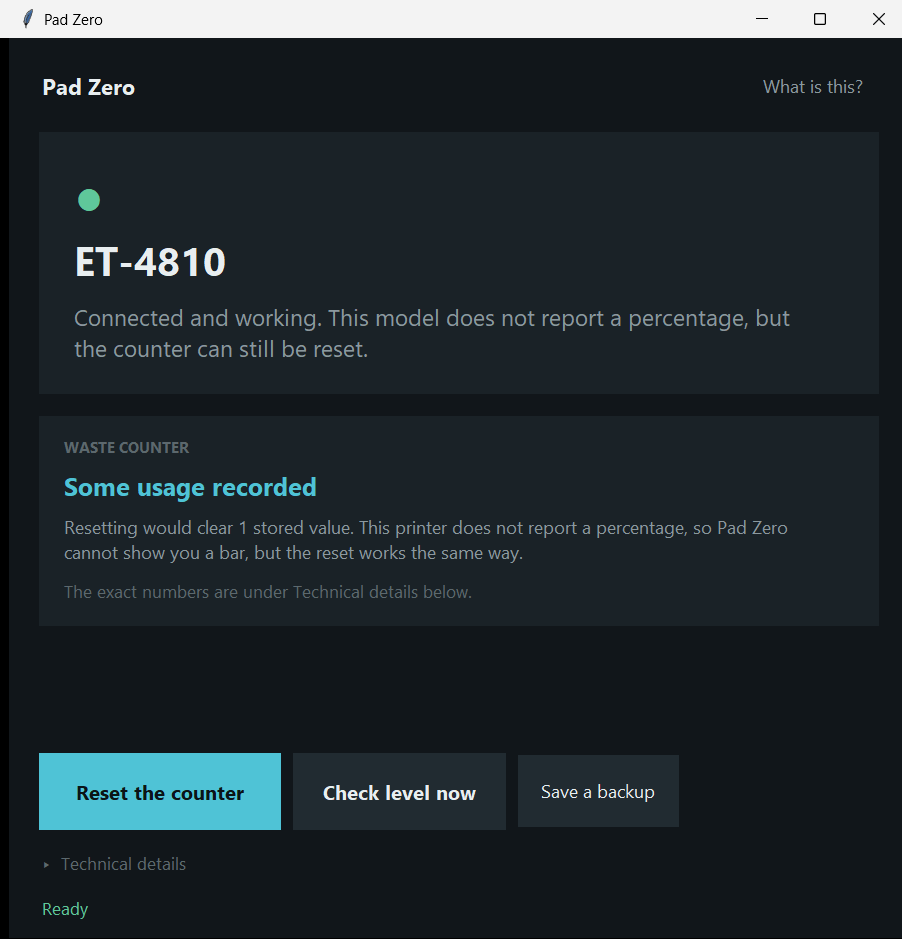
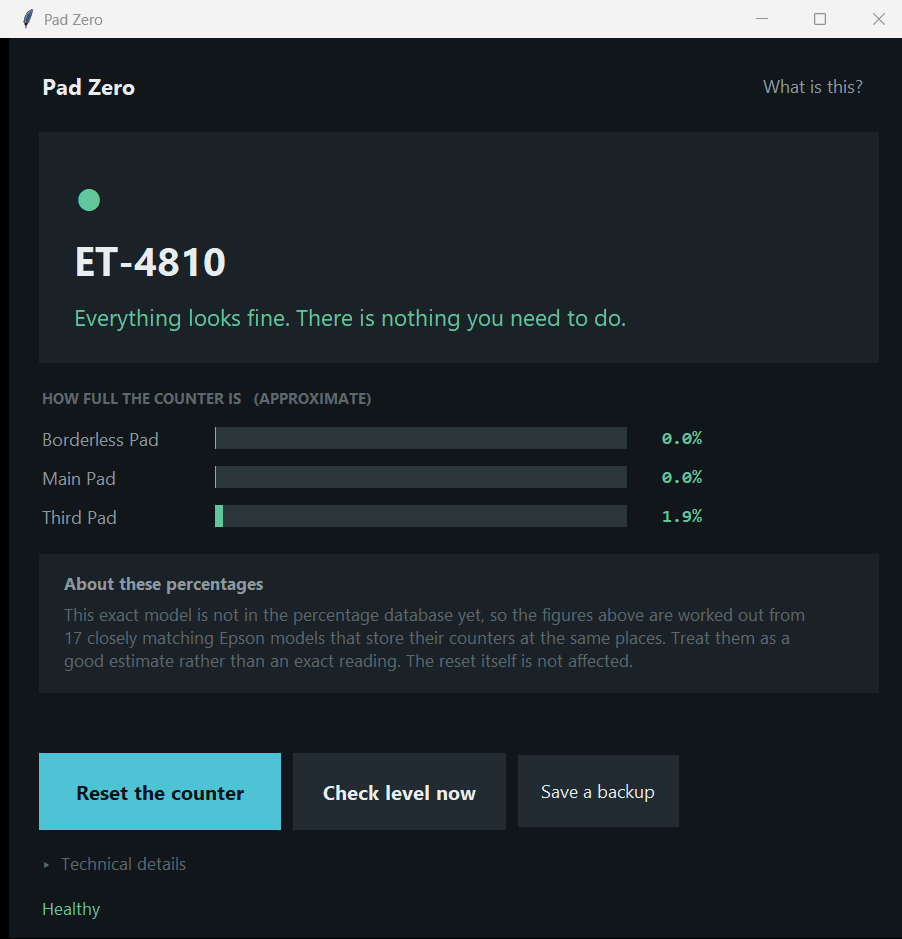
Show approximate percentages for models with no divider data
"1 stored value" is not an answer to "how full is it". Models like the
ET-4810 have known reset addresses but no entry in the percentage
database, so there was no bar to draw and nothing useful to say.

infer_waste() now derives a probable layout from models that store their
counters at the same addresses. The rule is deliberately strict: at least
three addresses must overlap, the highest-overlap layout wins, and it
refuses outright unless exactly one distinct layout ties for that score.
For the ET-4810 that resolves to the 17 models with a third counter at
252/253/254, which agree unanimously on 63.46 / 34.16 / 13.0. Dividers do
vary between families (16.31 and 34.15 also occur at these addresses), so
the unanimity check is doing real work rather than rubber-stamping.

This is safe in a way a guessed key or address would not be: a divider
only scales a number on screen and is never written to the printer.

Readings carry approx=True, coverage reports "approx", the heading says
APPROXIMATE, and a panel explains where the figures came from. Before and
after comparisons now work on these models too, since they finally have
percentages to compare.

diff --git a/padzero.py b/padzero.py
@@ -1,4 +1,4 @@
-#!/usr/bin/env python3
+#!/usr/bin/env python3
 r"""
 padzero.py - read and reset Epson waste ink counters.
 
@@ -133,6 +133,60 @@ def load_models():
         return json.load(fh)
 
 
+def infer_waste(reset_addrs, models):
+    """Work out a probable waste layout for a model with no divider data.
+
+    Some printers (the ET-4810 among them) have known reset addresses but no
+    entry in the percentage database, so there is no divider and no bar to
+    show. That is unhelpful: "1 stored value" tells a person nothing.
+
+    A divider only affects a displayed number, never a write, so a careful
+    inference here cannot damage a printer the way a guessed key or address
+    could. The rule is deliberately strict:
+
+      * only consider models whose waste addresses overlap this model's
+        reset addresses by at least three
+      * take the layout with the highest overlap
+      * refuse unless exactly one distinct layout ties for that best score
+
+    For the ET-4810 that lands on the 17 models with a third counter at
+    252/253/254, which agree unanimously on 63.46 / 34.16 / 13.0. If any of
+    them disagreed this returns None, and we say nothing rather than print a
+    number we cannot stand behind.
+
+    Returns {"waste": ..., "basis": [model names]} or None.
+    """
+    reset_set = set(reset_addrs)
+    if len(reset_set) < 3:
+        return None
+
+    groups = {}
+    for name, entry in models.items():
+        waste = entry.get("waste")
+        if not waste:
+            continue
+        oids = set()
+        for cfg in waste.values():
+            oids |= set(cfg["oids"])
+        overlap = len(oids & reset_set)
+        if overlap < 3:
+            continue
+        sig = json.dumps(waste, sort_keys=True)
+        g = groups.setdefault(sig, {"waste": waste, "models": [], "overlap": 0})
+        g["models"].append(name)
+        g["overlap"] = max(g["overlap"], overlap)
+
+    if not groups:
+        return None
+
+    best = max(g["overlap"] for g in groups.values())
+    tied = [g for g in groups.values() if g["overlap"] == best]
+    if len(tied) != 1:
+        return None  # candidate layouts disagree, so do not guess
+
+    return {"waste": tied[0]["waste"], "basis": sorted(tied[0]["models"])}
+
+
 # ----------------------------------------------------------------- printer
 class Printer:
     def __init__(self, path, models):
@@ -168,19 +222,43 @@ class Printer:
     def coverage(self):
         if not self.has_specs:
             return "none"
-        return "full" if self.extra.get("waste") else "partial"
+        if self.extra.get("waste"):
+            return "full"
+        return "approx" if self.inferred else "partial"
 
     # -- reading ----------------------------------------------------------
     def read(self, addrs):
         return dict(self.ep.read_eeprom(*addrs))
 
+    @property
+    def inferred(self):
+        """Probable waste layout when this model has no entry of its own."""
+        if not hasattr(self, "_inferred"):
+            self._inferred = None
+            if not self.extra.get("waste") and self.has_specs:
+                addrs = []
+                for m in getattr(self.ep.spec, "mem", []) or []:
+                    addrs.extend(m.get("addr", []))
+                if addrs:
+                    self._inferred = infer_waste(addrs, self.models)
+        return self._inferred
+
     def counters(self):
         """
         Percentages where a divider is known, otherwise raw byte values.
         Returns a list of dicts so the caller can render either shape.
+
+        Entries carry approx=True when the layout was inferred from models
+        that share this printer's reset addresses rather than read from its
+        own database entry.
         """
         out = []
         waste = self.extra.get("waste")
+        approx = False
+        if not waste and self.inferred:
+            waste = self.inferred["waste"]
+            approx = True
+
         if waste:
             for name, cfg in waste.items():
                 vals = self.read(cfg["oids"])
@@ -191,10 +269,11 @@ class Printer:
                 raw = int("".join("%02X" % v for v in reversed(b)), 16)
                 div = cfg.get("divider")
                 out.append({"name": name, "bytes": b, "raw": raw,
+                            "approx": approx,
                             "percent": round(raw / div, 2) if div else None})
             return out
 
-        # no divider data - report the raw bytes reinkpy would reset
+        # no divider data at all - report the raw bytes reinkpy would reset
         for m in getattr(self.ep.spec, "mem", []) or []:
             addrs = list(m.get("addr", []))
             if not addrs:
@@ -410,6 +489,7 @@ def main():
     print("  key group  : %s / %r" % (hex(rk) if rk else "?",
                                       getattr(pr.ep.spec, "wkey", None)))
     cov = {"full": "full - percentages and reset available",
+           "approx": "approximate - percentages estimated from matching models",
            "partial": "partial - reset available, no percentage data",
            "none": "NONE - this model is not in either database"}[pr.coverage]
     print("  coverage   : %s" % cov)

diff --git a/padzero_gui.py b/padzero_gui.py
@@ -503,6 +503,26 @@ class App:
             self.status("Healthy", GOOD)
 
         self._bars(counters)
+
+        if pr.coverage == "approx" and any(
+                c.get("percent") is not None for c in (counters or [])):
+            note = tk.Frame(self.advice, bg=CARD)
+            note.pack(fill="x")
+            tk.Label(note, text="About these percentages",
+                     font=("Segoe UI", 10, "bold"), bg=CARD, fg=DIM,
+                     anchor="w").pack(fill="x", padx=S(18), pady=(S(12), S(2)))
+            basis = (pr.inferred or {}).get("basis") or []
+            tk.Label(note,
+                     text=("This exact model is not in the percentage database "
+                           "yet, so the figures above are worked out from %d "
+                           "closely matching Epson models that store their "
+                           "counters at the same places. Treat them as a good "
+                           "estimate rather than an exact reading. The reset "
+                           "itself is not affected."
+                           % len(basis)),
+                     font=F_SMALL, bg=CARD, fg=FAINT, anchor="w",
+                     justify="left", wraplength=S(600)).pack(
+                fill="x", padx=S(18), pady=(0, S(14)))
         rk = getattr(pr.ep.spec, "rkey", None)
         lines = ["model      %s" % pr.model,
                  "serial     %s" % (pr.serial or "?"),
@@ -549,6 +569,8 @@ class App:
 
         if readable:
             heading = "BEFORE AND AFTER" if prev else "HOW FULL THE COUNTER IS"
+            if any(c.get("approx") for c in readable) and not prev:
+                heading += "   (APPROXIMATE)"
             tk.Label(self.levels, text=heading,
                      font=("Segoe UI", 9, "bold"), bg=BG,
                      fg=ACCENT if prev else FAINT,

diff --git a/RELEASE_NOTES.md b/RELEASE_NOTES.md
@@ -22,8 +22,8 @@ something absorbent under the printer meanwhile.
 
 No installer, no Python, nothing to set up.
 
-    PadZero.exe      7CDA574A8241BB0B1CE603A7A82F8730C4DF0AF74251179B242EFC34EEA27CF1
-    padzero-cli.exe  C409C59D346A1334F01E59F96D803CB8A53A8D1F6BD0581A22D78A68DC53FCC0
+    PadZero.exe      AD7CFD90FDE8912D81BB415BABD0E2A14424297C5C556D78733B2AD4FF7CA74E
+    padzero-cli.exe  8129CF0389B751A24D051B0DA47E74B3D176EC423DAF31D9B35ACADDD51210C3
 
 Verify before running:
 
